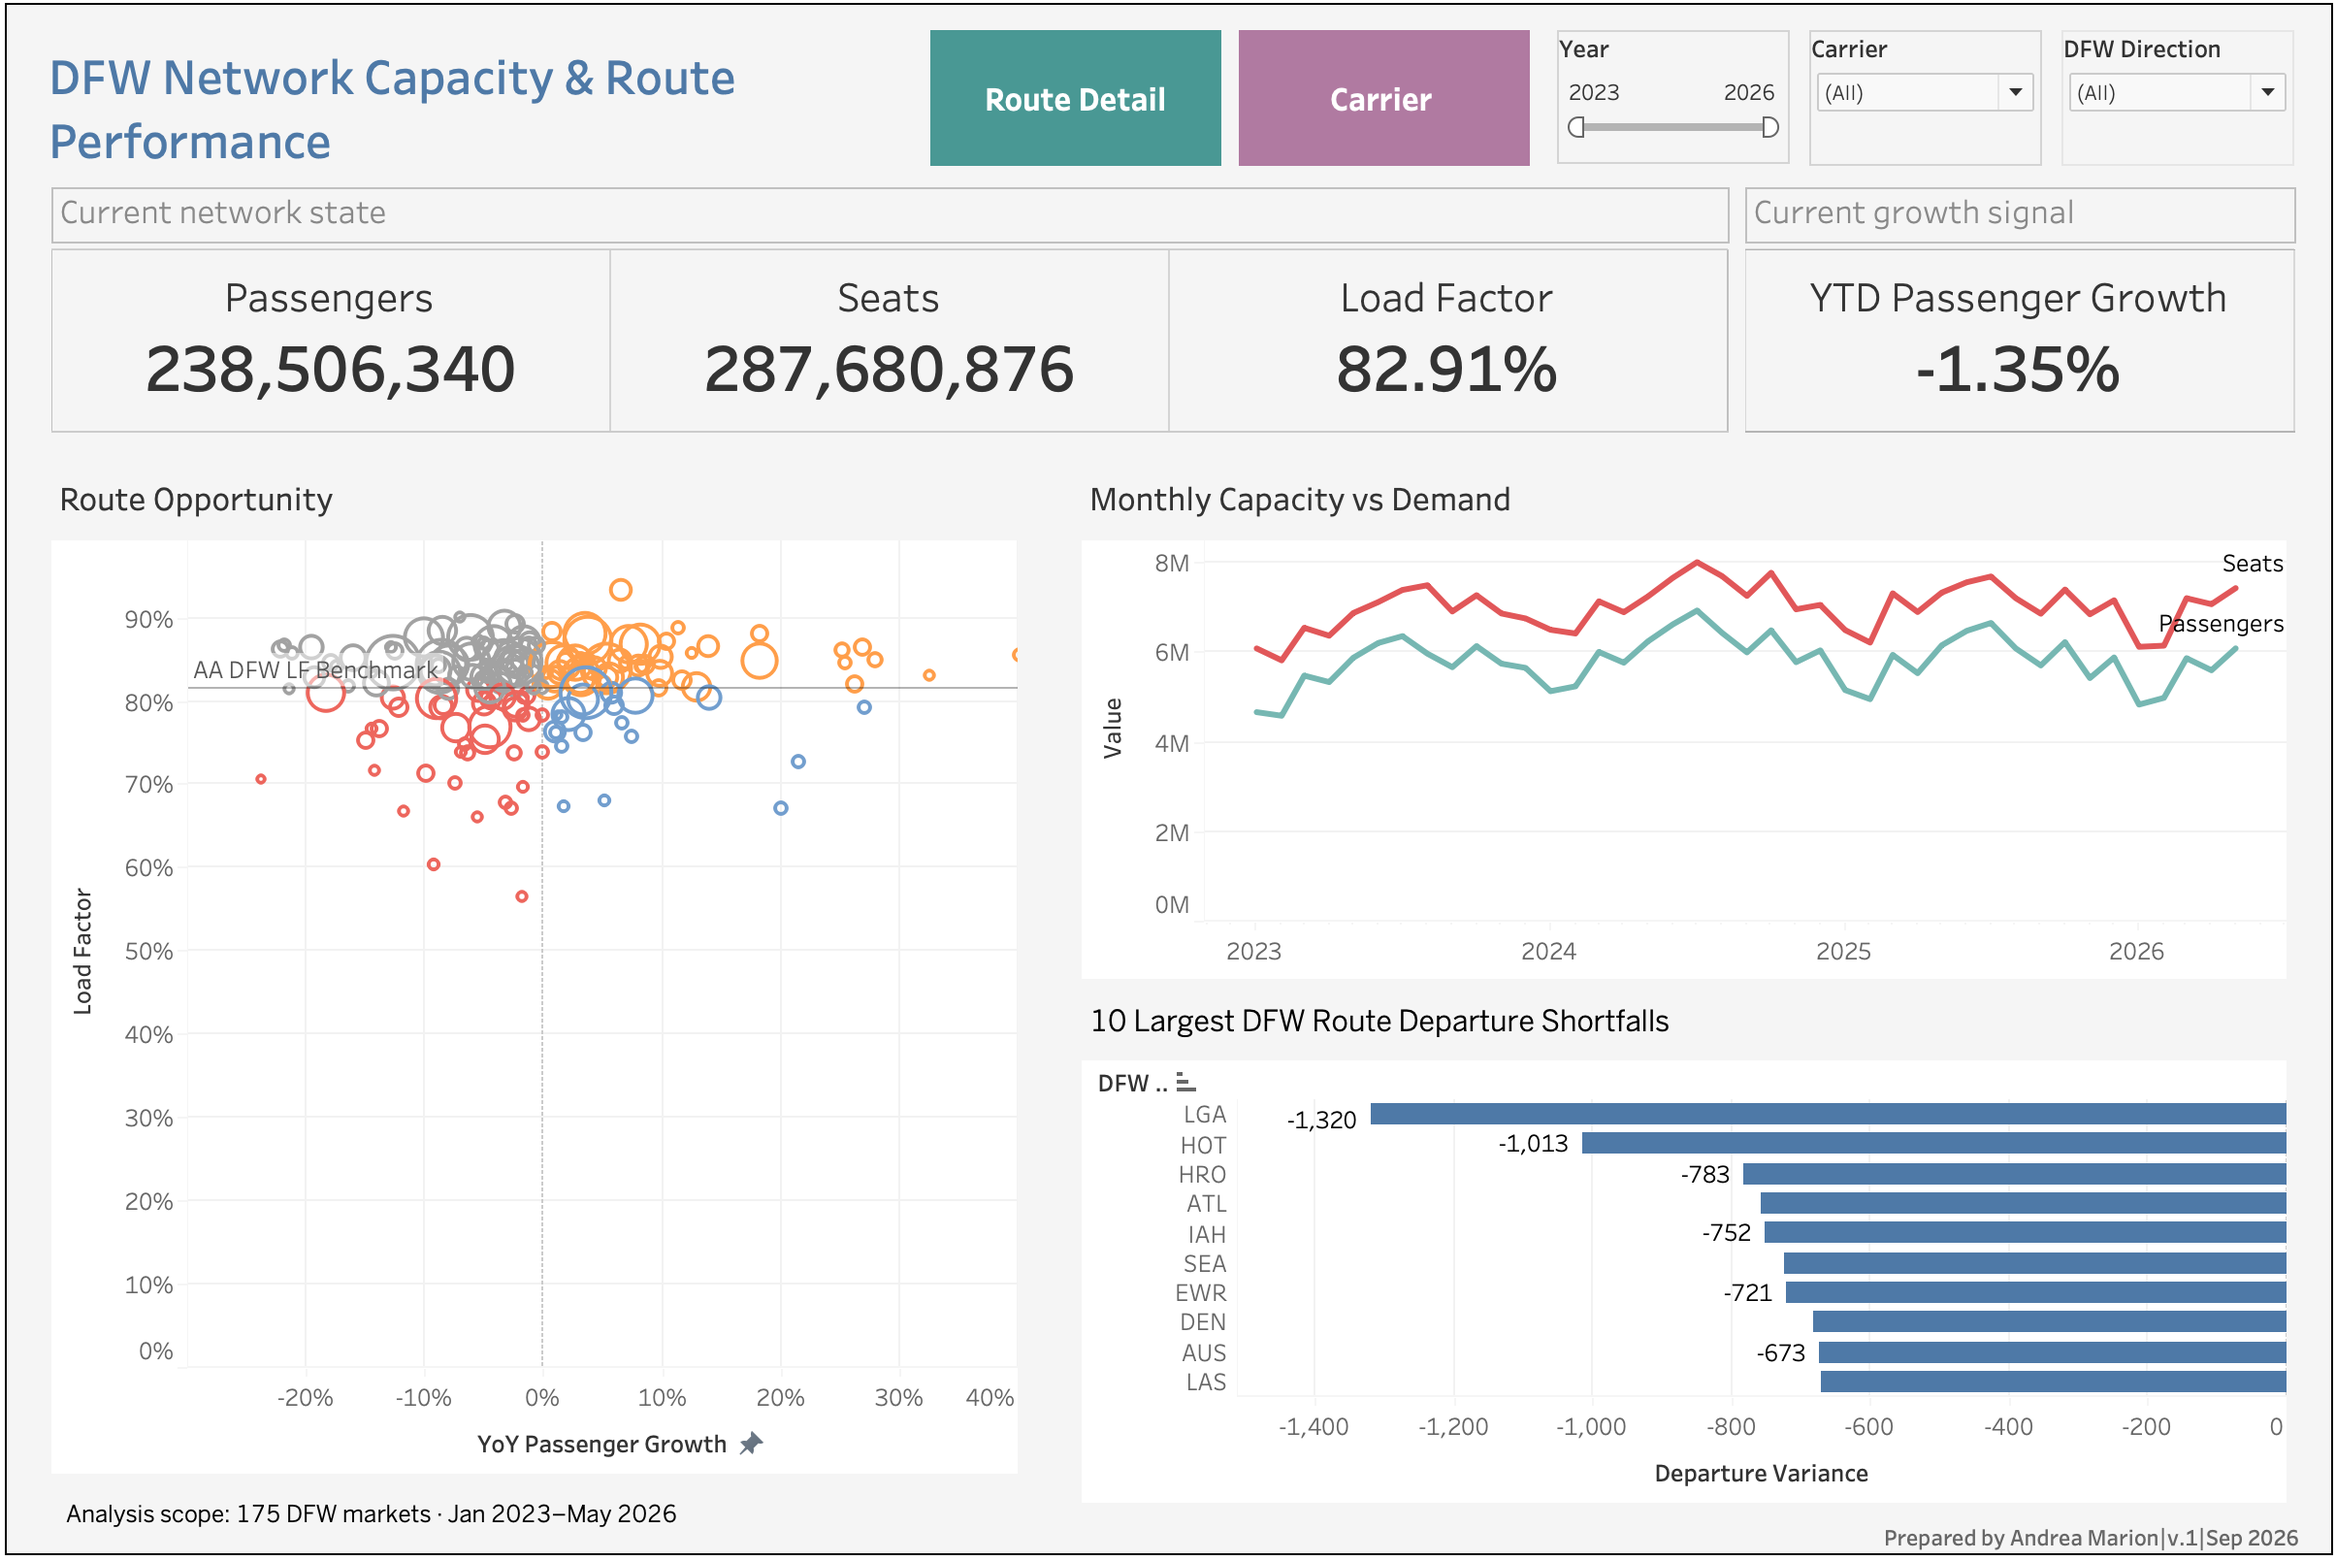
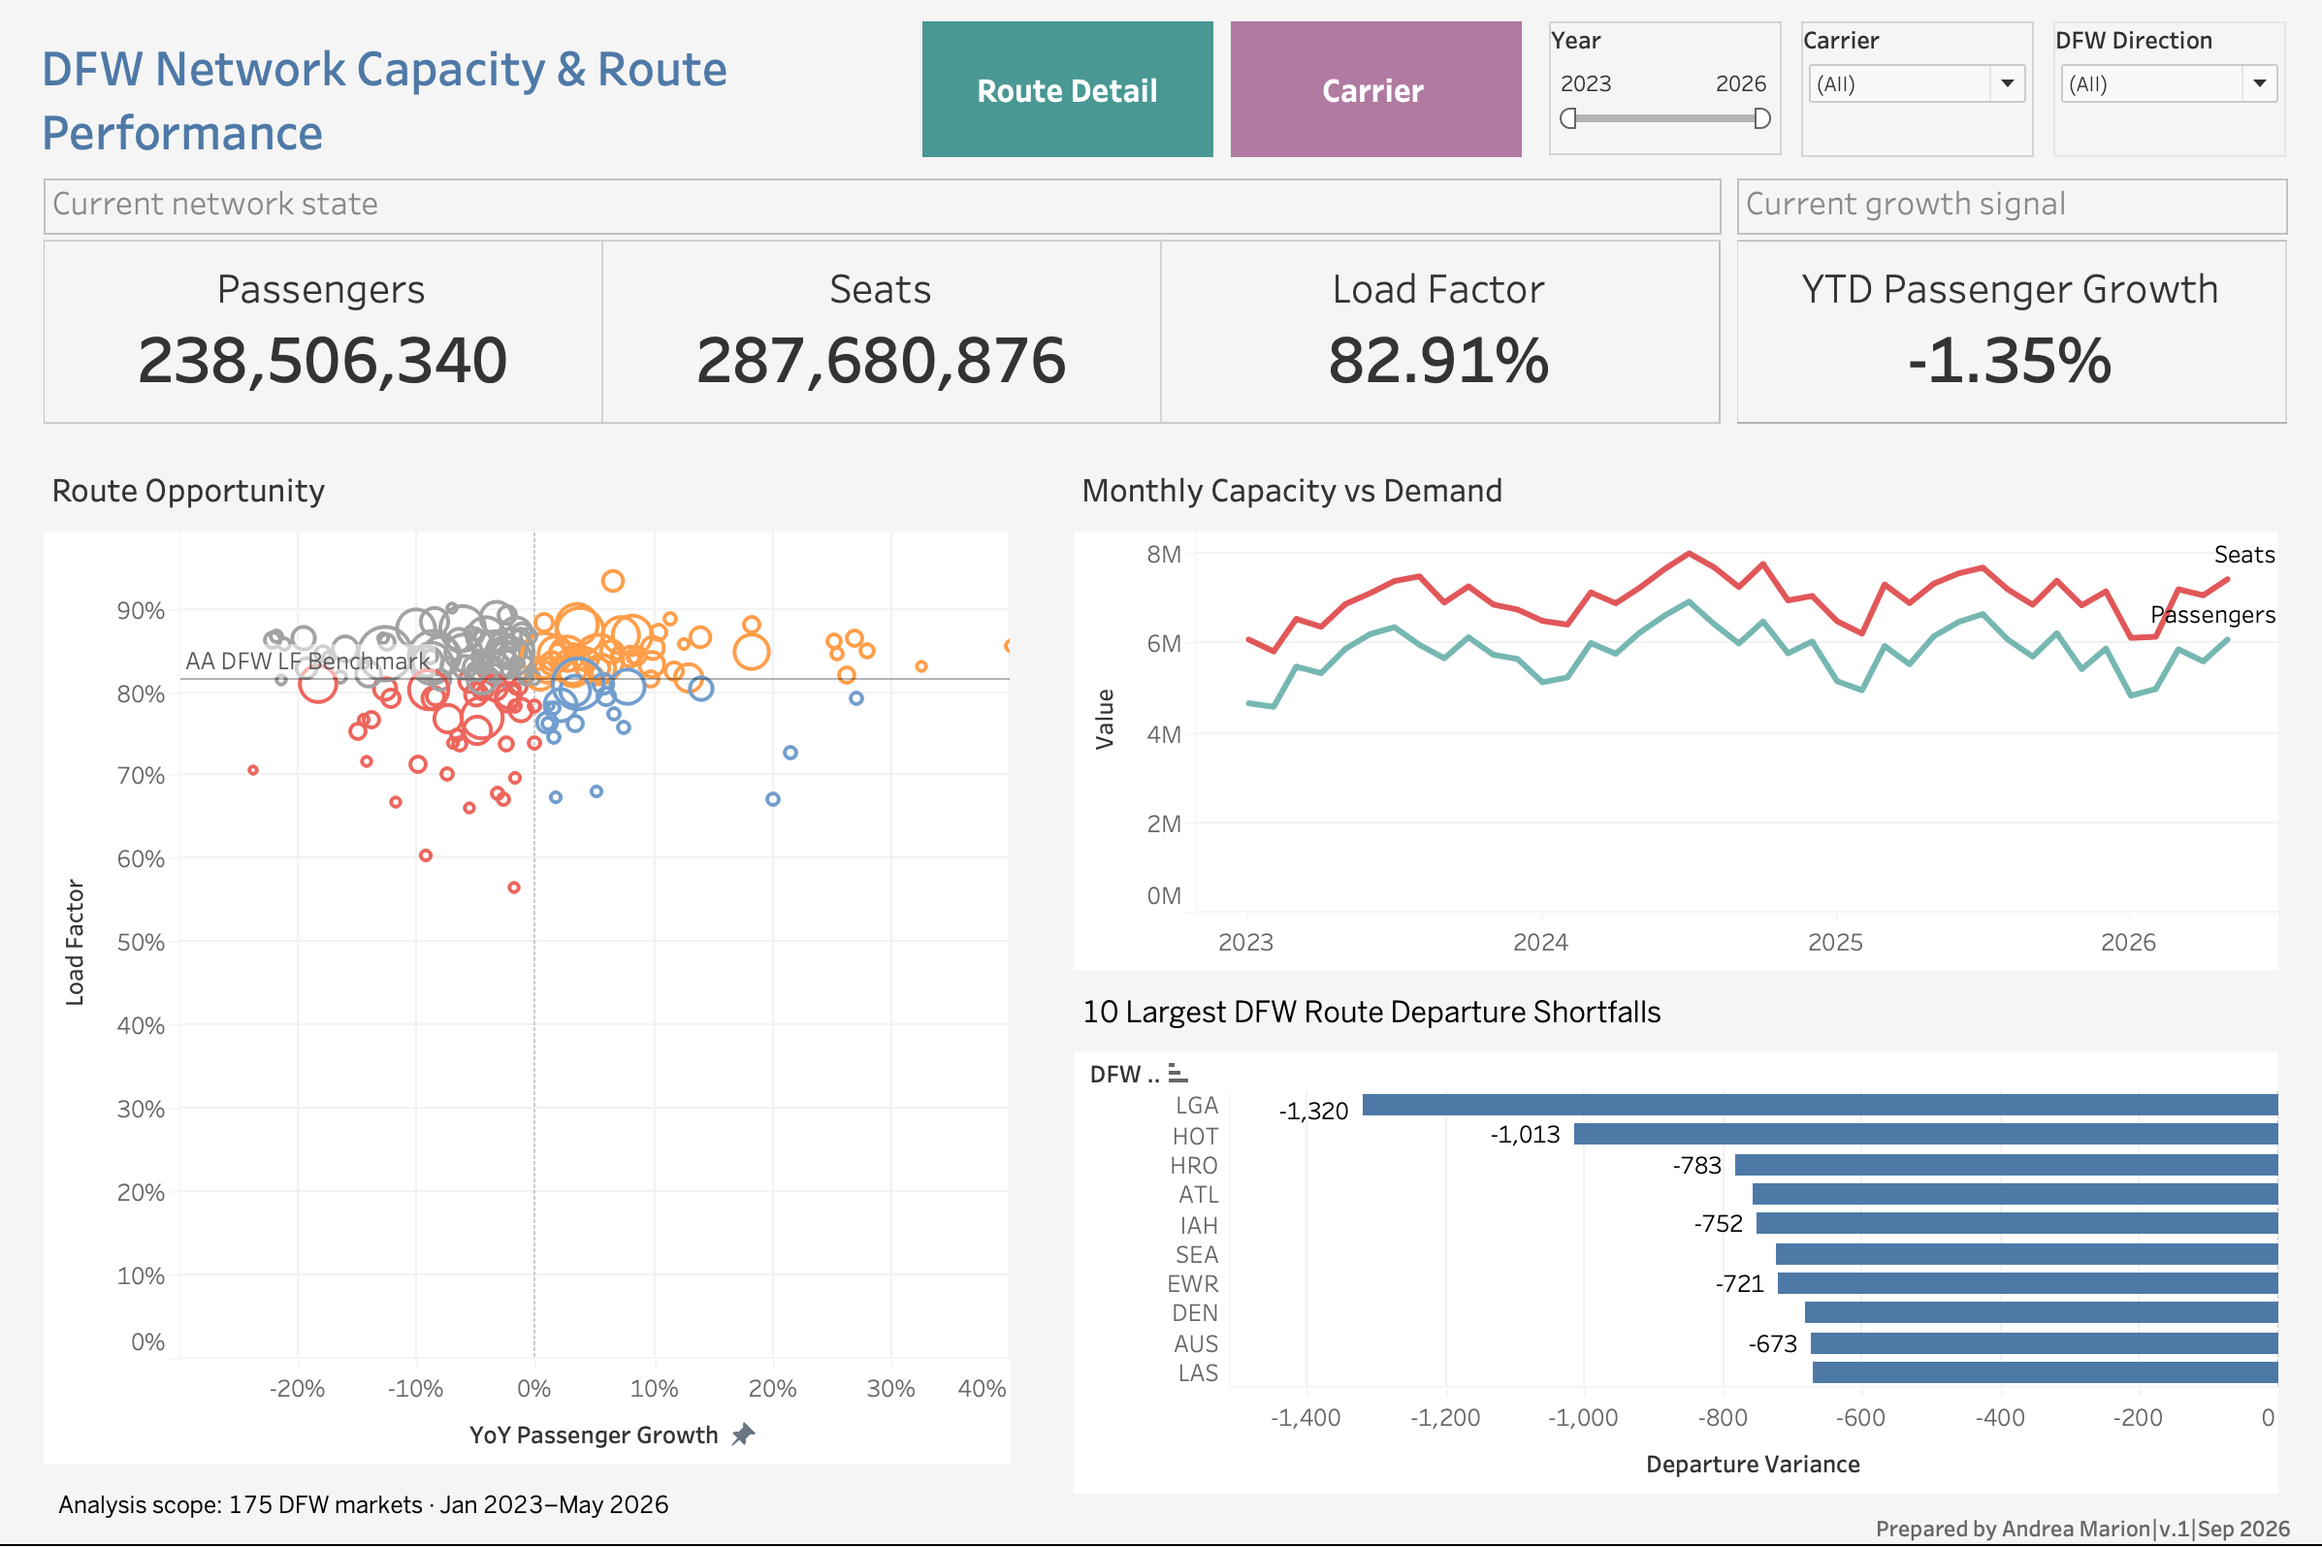
updated current capacity route thumbnail

diff --git a/index.html b/index.html
@@ -51,7 +51,7 @@
 								<h3><a href="https://github.com/andreamarion/AA-Project" target="_blank">DFW Network Capacity & Route Planning</a></h3> 
 								<h4><strong>Airline Network Analytics & Decision Support</strong></h4>
 								<a href="images/capacity_route_performance.png" target="_blank"> 
-								<span class="image main"><img src="images/power-bi-executive-overview.png" alt="Executive Dashboard Preview"/></span></a>
+								<span class="image main"><img src="images/capacity_route_performance.png" alt="Executive Dashboard Preview"/></span></a>
 								<p><strong>Tableau • PostgreSQL • SQL • Dimensional Modeling • Data Validation • Capacity Planning</strong></p>
 								<p><strong>238.5M Passengers | 287.7M Seats | 82.91% Load Factor | -1.35% YTD Passenger Growth</strong></p>
 								<p>End-to-end airline network planning solution designed to evaluate DFW passenger demand, seat capacity, load factor, route growth, departure performance, and reporting-carrier activity. The project uses a layered PostgreSQL pipeline, dimensional modeling, SQL, and Tableau to transform BTS T-100 data into an interactive decision-support environment.</p>
